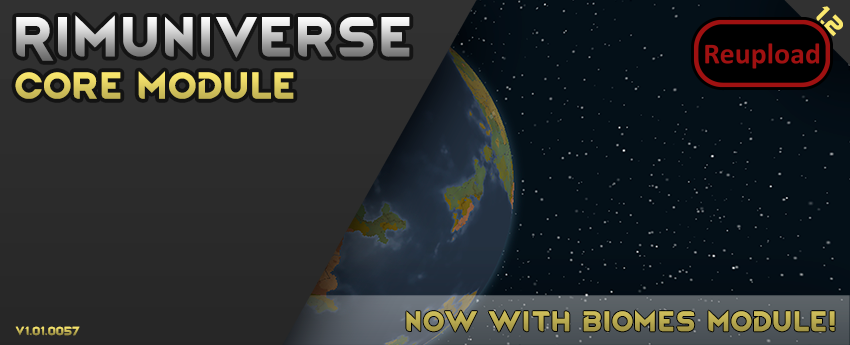
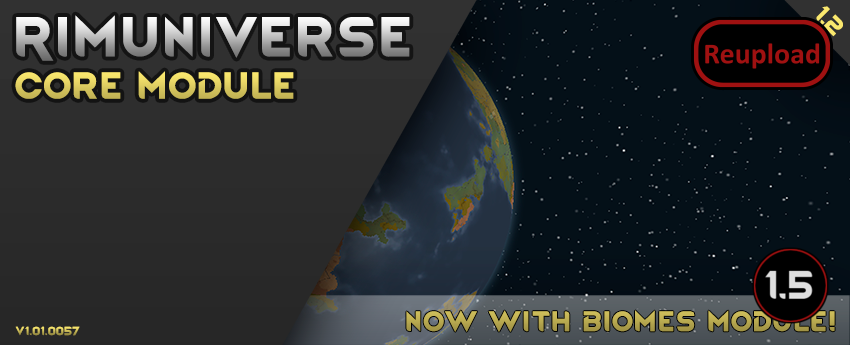
Mod updated for 1.5 and passed autotests

Changed region(s): [[0.8871, 0.7246, 0.9788, 0.9565]]

diff --git a/Source/RimUniverse.CoreModule/Controller.cs b/Source/RimUniverse.CoreModule/Controller.cs
@@ -15,8 +15,7 @@ public class Controller : Mod
         Settings = GetSettings<Settings>();
         Log.Message("RimUniverse: Loaded successfully");
         currentVersion =
-            VersionFromManifest.GetVersionFromModMetaData(
-                ModLister.GetActiveModWithIdentifier("Mlie.RimUniverseCoreModule"));
+            VersionFromManifest.GetVersionFromModMetaData(content.ModMetaData);
     }
 
     public override void DoSettingsWindowContents(Rect inRect)

diff --git a/README.md b/README.md
@@ -44,11 +44,13 @@ https://steamcommunity.com/sharedfiles/filedetails/?id=2257048351]![Image](https
 
 -  See if the the error persists if you just have this mod and its requirements active.
 -  If not, try adding your other mods until it happens again.
--  Post your error-log using https://steamcommunity.com/workshop/filedetails/?id=818773962]HugsLib and command Ctrl+F12
+-  Post your error-log using https://steamcommunity.com/workshop/filedetails/?id=818773962]HugsLib or the standalone https://steamcommunity.com/sharedfiles/filedetails/?id=2873415404]Uploader and command Ctrl+F12
 -  For best support, please use the Discord-channel for error-reporting.
 -  Do not report errors by making a discussion-thread, I get no notification of that.
 -  If you have the solution for a problem, please post it to the GitHub repository.
+-  Use https://github.com/RimSort/RimSort/releases/latest]RimSort to sort your mods
 
 
 
+https://steamcommunity.com/sharedfiles/filedetails/changelog/2576822036]![Image](https://img.shields.io/github/v/release/emipa606/RimUniverseCoreModule?label=latest%20version&style=plastic&color=9f1111&labelColor=black)
 
